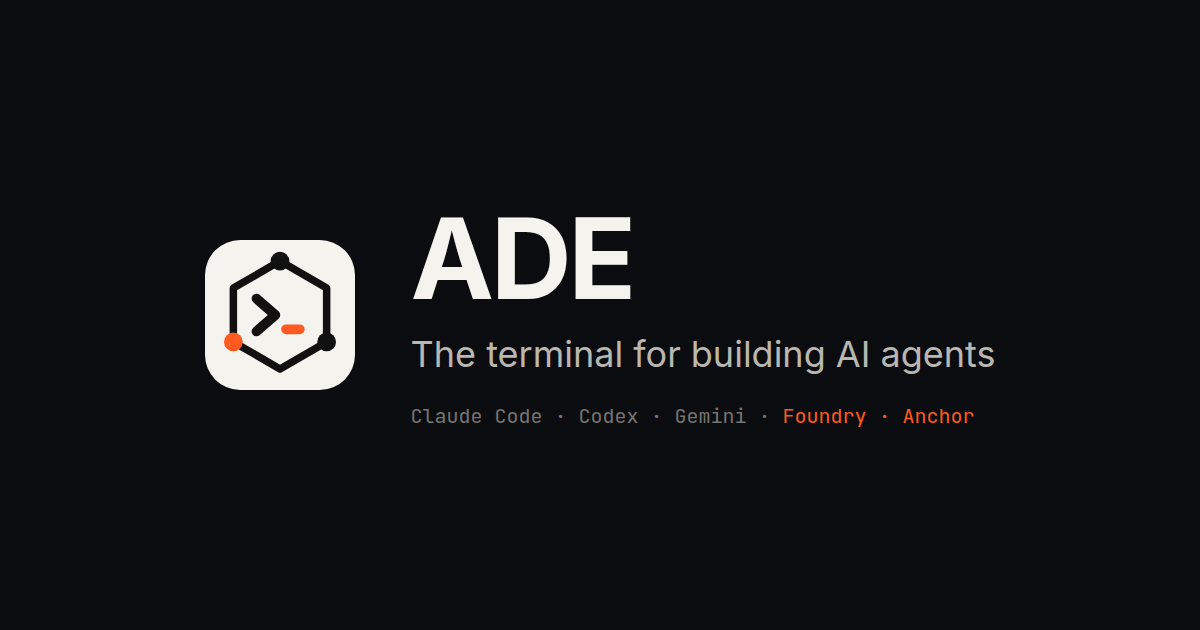
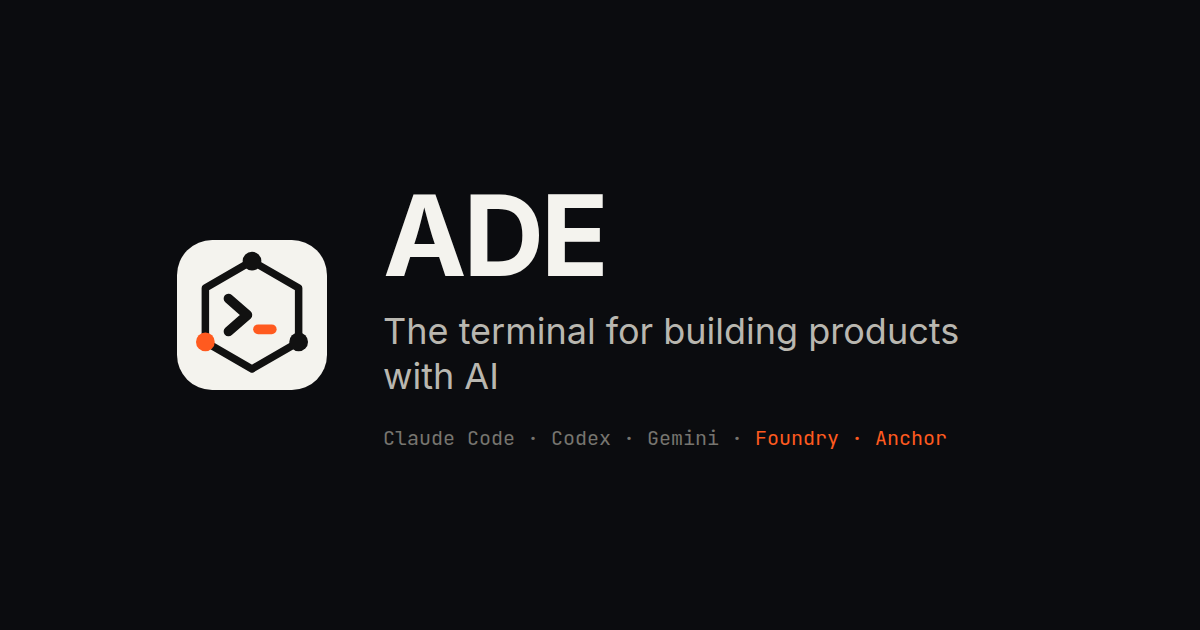
Site messaging: the terminal for building products with AI

Changed region(s): [[0.1233, 0.3016, 0.8325, 0.7238], [0.74, 0.6333, 0.8017, 0.7238]]

diff --git a/docs/index.html b/docs/index.html
@@ -1,7 +1,7 @@
 ---
 layout: default
 body_class: home
-description: ADE is the desktop terminal for building AI agents. Run Claude Code, Codex and Gemini side by side, see what every agent costs, and ship smart contracts from one app.
+description: ADE is the desktop terminal for building products with AI. Run Claude Code, Codex and Gemini side by side, see what every agent costs, and ship smart contracts from one app.
 ---
 {% assign img = '/assets/img/' | relative_url %}
 {% include buy-url.html %}
@@ -10,8 +10,8 @@ description: ADE is the desktop terminal for building AI agents. Run Claude Code
     <div class="hero-copy">
       <div class="hero-mark"><img src="{{ img }}logo.svg" width="76" height="76" alt=""></div>
       <a class="pill" href="#new"><b>NEW</b><span>Anti-slop, MCP library &amp; Secrets vault →</span></a>
-      <h1>The terminal for <span class="grad-text">building AI&nbsp;agents.</span></h1>
-      <p class="sub">Run Claude Code, Codex and Gemini side by side, draft every prompt properly, and see exactly what each agent costs — in one fast desktop app.</p>
+      <h1>The terminal for <span class="grad-text">building products with&nbsp;AI.</span></h1>
+      <p class="sub">Go from idea to shipped product with AI coding agents. Run Claude Code, Codex and Gemini side by side, draft every prompt properly, and see exactly what each agent costs — in one fast desktop app.</p>
       <div class="hero-cta">
         <a class="btn btn-primary" href="{{ buy }}">Buy a license</a>
         <a class="btn btn-ghost" href="{{ site.repo }}/releases/latest" data-download="auto">
@@ -98,8 +98,8 @@ description: ADE is the desktop terminal for building AI agents. Run Claude Code
     <div class="training">
       <div>
         <span class="kicker">aracademy</span>
-        <h2>The tool behind aracademy's AI agent training</h2>
-        <p>ADE is the environment used throughout aracademy's training on building AI agents. Learn the workflow in the course, keep using the same tool on real projects.</p>
+        <h2>The tool behind aracademy's AI training</h2>
+        <p>ADE is the environment used throughout aracademy's training on building products with AI. Learn the workflow in the course, keep using the same tool on real projects.</p>
       </div>
       <a class="btn btn-primary" href="{{ site.aracademy_url }}">Explore the training <span class="arrow" aria-hidden="true">→</span></a>
     </div>
@@ -141,7 +141,7 @@ description: ADE is the desktop terminal for building AI agents. Run Claude Code
   <div class="wrap">
     <div class="cta-band">
       <img src="{{ img }}logo.svg" width="60" height="60" alt="">
-      <h2>Build your next agent in ADE</h2>
+      <h2>Build your next product in ADE</h2>
       <p>Download the free trial today. Buy a license when it earns its place.</p>
       <div class="hero-cta">
         <a class="btn btn-primary" href="{{ buy }}">Buy a license</a>

diff --git a/docs/_includes/footer.html b/docs/_includes/footer.html
@@ -6,7 +6,7 @@
         <img src="{{ '/assets/img/logo.svg' | relative_url }}" alt="" width="28" height="28">
         <span>ADE</span>
       </a>
-      <p>Agentic Development Environment. The terminal for building AI agents.</p>
+      <p>Agentic Development Environment. The terminal for building products with AI.</p>
     </div>
     <div class="footer-cols">
       <div>

diff --git a/README.md b/README.md
@@ -4,7 +4,7 @@
 
 <h1 align="center">ADE — Agentic Development Environment</h1>
 
-<p align="center"><strong>The terminal for building AI agents.</strong></p>
+<p align="center"><strong>The terminal for building products with AI.</strong></p>
 
 <p align="center">
   <a href="https://alvin-reyes.github.io/better-agentic-ide/"><strong>Website</strong></a> ·
@@ -13,7 +13,7 @@
   <a href="https://github.com/alvin-reyes/better-agentic-ide/releases/latest"><strong>Download</strong></a>
 </p>
 
-ADE is a desktop app for macOS, Windows and Linux built for agent-driven development. Run Claude Code, Codex and Gemini side by side, draft prompts properly, see exactly what every agent costs, and take smart contracts from first test to reviewed deploy, all from the keyboard.
+ADE is a desktop app for macOS, Windows and Linux for building products with AI coding agents. Run Claude Code, Codex and Gemini side by side, draft prompts properly, see exactly what every agent costs, and take smart contracts from first test to reviewed deploy, all from the keyboard.
 
 ## Features
 
@@ -44,7 +44,7 @@ ADE is commercial software. Try it free; if you keep using it, [buy a license](h
 
 ## aracademy
 
-ADE is the tool used in aracademy's AI agent training, and a license is included with the course. Details are on the [website](https://alvin-reyes.github.io/better-agentic-ide/#training).
+ADE is the tool used in aracademy's AI training, and a license is included with the course. Details are on the [website](https://alvin-reyes.github.io/better-agentic-ide/#training).
 
 ## Support
 
